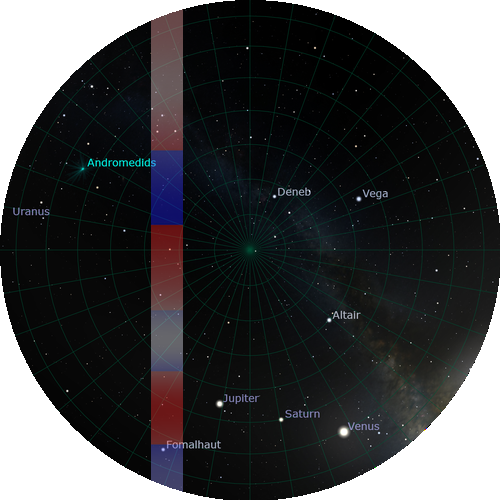
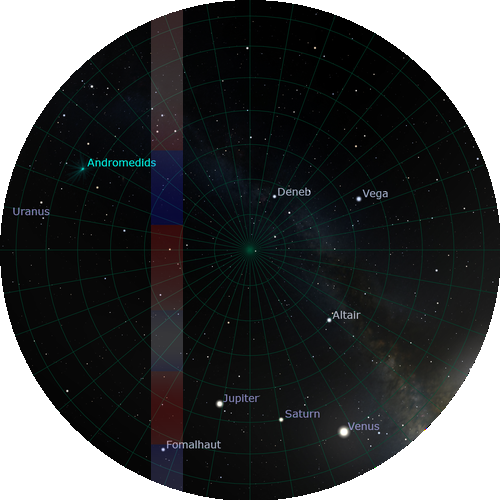
integrating pi, motorized mount, GUI, and route planning

Changed region(s): [[0.3, 0.0, 0.39, 0.99]]

diff --git a/image_overlay.py b/image_overlay.py
@@ -27,7 +27,8 @@
 # input the heatmap
 # overlay heatmap onto the correct skymap coordinates
 
-from PIL import Image
+
+from PIL import Image, ImageDraw
 import numpy as np
 
 
@@ -53,13 +54,33 @@ def image_overlay(heatmap_file, skymap_file, heatmap_size):
 
     # blend the skymap and heatmap with an alpha value
     # decide which alpha to use
-    blended_image = Image.blend(skymap_cropped, adjusted_heatmap, alpha=0.4)
+    blended_image = Image.blend(skymap_cropped, adjusted_heatmap, alpha=0.2)
     # blended_image.show()
 
     # paste the blended skymap and heatmap on the full skymap image at the correct coordinates
     skymap.paste(blended_image, tuple(heatmap_size))
     skymap.show()
-    skymap.save("image_overlay.png")
+    img = skymap.convert("RGB")
+    npImage = np.array(img)
+    h, w = skymap.size
+
+    # Create same size alpha layer with circle
+    alpha = Image.new('L', img.size, 0)
+    draw = ImageDraw.Draw(alpha)
+    draw.pieslice([0, 0, h, w], 0, 360, fill=255)
+
+    # Convert alpha Image to numpy array
+    npAlpha = np.array(alpha)
+
+    # Add alpha layer to RGB
+    npImage = np.dstack((npImage, npAlpha))
+
+    # Save with alpha
+    final_image = Image.fromarray(npImage)
+    final_image.show()
+    final_image.resize((500, 500), Image.ANTIALIAS)
+    final_image.save("final_image_overlay.png")
+    skymap.save("not_final_image_overlay.png")
 
 
 def two_dim_sel_coordinates(gui_coordinates):

diff --git a/GUI_one_dim_sweep.py b/GUI_one_dim_sweep.py
@@ -61,7 +61,9 @@ def unbind_mouse(one_sweep_window, entry_1):
     route_list = Route_Demo.one_terra(250, coordinates_list[0])
     routedf = pd.DataFrame(route_list)
     routedf = routedf.transpose()
-    routedf.to_csv('1-D Terrestrial Route.csv', index=False)
+    routedf.to_csv('Y:\\Route Data\\Scanning_Route.csv', index=False)
+    with open('Y:\\Route Data\\Scanning_Key.txt', 'w') as f:
+        f.write('0')
     one_sweep_window.destroy()
 
 

diff --git a/GUI_repeated_point_analysis.py b/GUI_repeated_point_analysis.py
@@ -62,7 +62,9 @@ def unbind_mouse(one_sweep_window, entry_1):
     route_list = Route_Demo.one_terra(250, coordinates_list[0])
     routedf = pd.DataFrame(route_list)
     routedf = routedf.transpose()
-    routedf.to_csv('RPA Route.csv', index=False)
+    routedf.to_csv('Y:\\Route Data\\Scanning_Route.csv', index=False)
+    with open('Y:\\Route Data\\Scanning_Key.txt', 'w') as f:
+        f.write('0')
     one_sweep_window.destroy()
 
 

diff --git a/GUI_two_dim_sweep.py b/GUI_two_dim_sweep.py
@@ -61,7 +61,9 @@ def unbind_mouse(two_sweep_window, entry_1):
 
     route_list = Route_Demo.two_terra(250, coordinates_list[0], 10)
     routedf = pd.DataFrame(route_list)
-    routedf.to_csv('2-D Terrestrial Route.csv', index=False)
+    routedf.to_csv('Y:\\Route Data\\Scanning_Route.csv', index=False)
+    with open('Y:\\Route Data\\Scanning_Key.txt', 'w') as f:
+        f.write('0')
     two_sweep_window.destroy()
 
 

diff --git a/GUI_two_dim_area.py b/GUI_two_dim_area.py
@@ -57,7 +57,9 @@ def unbind_mouse(two_sel_window):
 
     route_list = Route_Demo.two_dim(250, coordinates_list[0], coordinates_list[1], 10)
     routedf = pd.DataFrame(route_list)
-    routedf.to_csv('2-D Area Route.csv', index=False)
+    routedf.to_csv('Y:\\Route Data\\Scanning_Route.csv', index=False)
+    with open('Y:\\Route Data\\Scanning_Key.txt', 'w') as f:
+        f.write('0')
     two_sel_window.destroy()
 
 

diff --git a/stellarium_screenshots.py b/stellarium_screenshots.py
@@ -7,6 +7,10 @@ import time
 # need to download Stellarium and set the default projection mode to 'equal area'
 # need to set the screenshot location in Stellarium to "Screenshots" folder within the HLT project
 
+# add a function, add 14 minutes to the current time
+
+def time_tracker():
+    x = 0
 
 def change_settings(url_main):
     """

diff --git a/GUI_select_mode.py b/GUI_select_mode.py
@@ -11,7 +11,6 @@ import GUI_one_dim_sweep
 import GUI_repeated_point_analysis
 import stellarium_screenshots
 
-
 def relative_to_assets(path: str) -> Path:
     """
     this function helps retrieve the images for the GUI buttons
